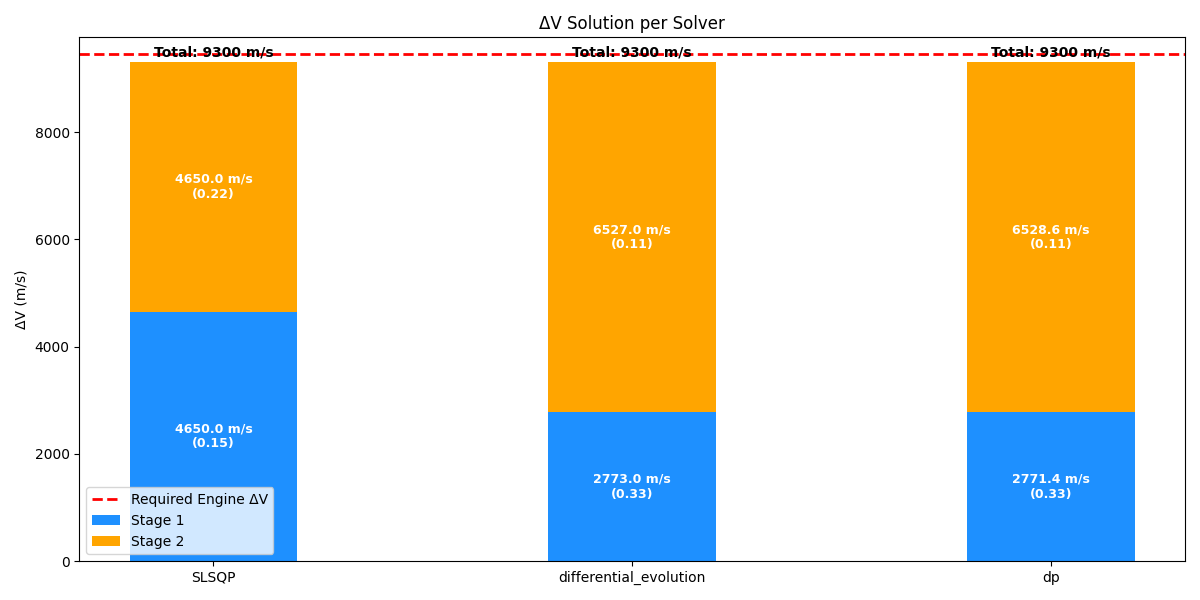
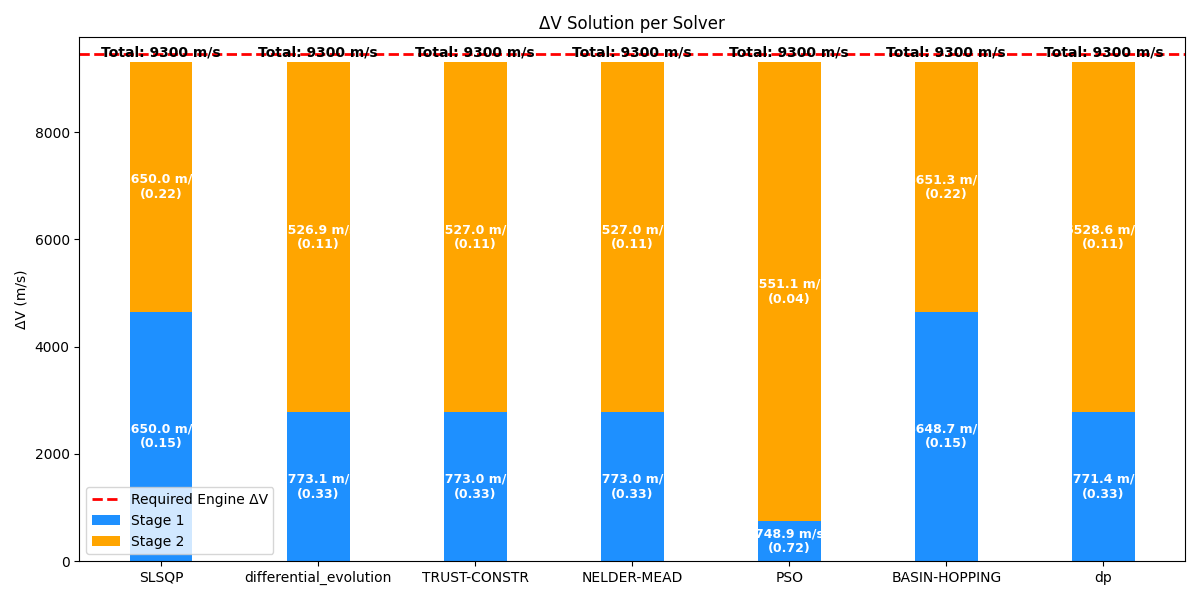
added  more solvers

diff --git a/Stage_Opt/payload_optimization.py b/Stage_Opt/payload_optimization.py
@@ -24,12 +24,14 @@ import csv
 import sys
 import time  # for timing
 import numpy as np
-from scipy.optimize import minimize, differential_evolution, approx_fprime
+from scipy.optimize import minimize, differential_evolution, approx_fprime, basinhopping
 from pymoo.algorithms.soo.nonconvex.ga import GA
 from pymoo.optimize import minimize as pymoo_minimize
 from pymoo.core.problem import Problem
 import matplotlib.pyplot as plt
 import pandas as pd
+from pyswarms.single.global_best import GlobalBestPSO
+import cma
 
 # Constants for gravity and drag losses (in m/s)
 GRAVITY_LOSS = 100.0  
@@ -271,6 +273,91 @@ def optimize_payload_allocation(TOTAL_DELTA_V, ISP, EPSILON, G0=9.81, method='SL
         jacobian = lambda x: approx_fprime(x, lambda dv: objective_with_penalty(dv, G0, ISP, EPSILON, TOTAL_DELTA_V, penalty_coeff, tol), 1e-8)
         res = minimize(objective_with_penalty, initial_guess, args=(G0, ISP, EPSILON, TOTAL_DELTA_V, penalty_coeff, tol), method='Newton-CG', jac=jacobian)
         optimal_dv = res.x
+    elif method.upper() == 'TRUST-CONSTR':
+        constraints = {'type': 'eq', 'fun': lambda dv: np.sum(dv) - TOTAL_DELTA_V}
+        res = minimize(
+            payload_fraction_objective,
+            initial_guess,
+            args=(G0, ISP, EPSILON, penalty_coeff),
+            method='trust-constr',
+            bounds=bounds,
+            constraints=constraints,
+            options={'verbose': 0}
+        )
+        optimal_dv = res.x
+    elif method.upper() == 'NELDER-MEAD':
+        # Nelder-Mead with constraint handling
+        def constrained_objective(x):
+            constraint_violation = abs(np.sum(x) - TOTAL_DELTA_V)
+            obj_value = payload_fraction_objective(x, G0, ISP, EPSILON, penalty_coeff)
+            return obj_value + penalty_coeff * constraint_violation
+
+        res = minimize(
+            constrained_objective,
+            initial_guess,
+            method='Nelder-Mead',
+            options={
+                'maxiter': 10000,
+                'adaptive': True
+            }
+        )
+        optimal_dv = res.x
+    elif method.upper() == 'PSO':
+        def pso_objective(x):
+            # Handle batch of particles
+            return np.array([
+                objective_with_penalty(pos, G0, ISP, EPSILON, TOTAL_DELTA_V, penalty_coeff)
+                for pos in x
+            ])
+
+        # Set up optimizer
+        options = {'c1': 0.5, 'c2': 0.3, 'w': 0.9}
+        optimizer = GlobalBestPSO(
+            n_particles=50,
+            dimensions=n,
+            options=options,
+            bounds=(np.zeros(n), max_dv)
+        )
+        
+        # Optimize
+        best_cost, best_pos = optimizer.optimize(
+            pso_objective,
+            iters=200
+        )
+        optimal_dv = best_pos
+    elif method.upper() == 'BASIN-HOPPING':
+        minimizer_kwargs = {
+            "method": "SLSQP",
+            "args": (G0, ISP, EPSILON, penalty_coeff),
+            "bounds": bounds,
+            "constraints": {'type': 'eq', 'fun': lambda dv: np.sum(dv) - TOTAL_DELTA_V}
+        }
+        
+        res = basinhopping(
+            payload_fraction_objective,
+            initial_guess,
+            minimizer_kwargs=minimizer_kwargs,
+            niter=100,
+            T=1.0,  # Temperature parameter
+            stepsize=0.5  # Initial step size
+        )
+        optimal_dv = res.x
+    elif method.upper() == 'CMA-ES':
+        def cmaes_objective(x):
+            constraint_violation = abs(np.sum(x) - TOTAL_DELTA_V)
+            obj_value = payload_fraction_objective(x, G0, ISP, EPSILON, penalty_coeff)
+            return obj_value + penalty_coeff * constraint_violation
+
+        sigma0 = 0.5  # Initial step size
+        es = cma.CMAEvolutionStrategy(
+            initial_guess,
+            sigma0,
+            {'bounds': [0, max(max_dv)],
+             'maxiter': 1000,
+             'verbose': -1}
+        )
+        res = es.optimize(cmaes_objective)
+        optimal_dv = res.xbest
     elif method.lower() == 'dp':
         if n > 3:
             raise ValueError('Dynamic programming approach only supports up to 3 stages')
@@ -526,7 +613,7 @@ def main():
     ISP = [stage['ISP'] for stage in stages]
     EPSILON = [stage['EPSILON'] for stage in stages]
 
-    methods = ['SLSQP', 'differential_evolution', 'GA', 'newton', 'dp']
+    methods = ['SLSQP', 'differential_evolution', 'GA', 'newton', 'TRUST-CONSTR', 'NELDER-MEAD', 'PSO', 'BASIN-HOPPING', 'CMA-ES', 'dp']
     optimization_results = []
 
     # Run optimization for each method.

diff --git a/Stage_Opt/report.tex b/Stage_Opt/report.tex
@@ -72,9 +72,13 @@ stage & ISP & EPSILON \\
 \midrule
 Method & Time (s) & Payload Fraction & dv & ratio \\
 \midrule
-SLSQP & 0.002707 & 0.031548 & [4650. 4650.] & np.float64(0.14597089895924484), np.float64(0.216125802081186) \\
-differential\_evolution & 2.854491 & 0.035547 & [2772.97185716 6527.01884307] & np.float64(0.3297591669827639), np.float64(0.10779836276028334) \\
-dp & 0.044753 & 0.035547 & [2771.4 6528.6] & np.float64(0.32996739307004114), np.float64(0.10772992500147) \\
+SLSQP & 0.004471 & 0.031548 & 4650.00, 4650.00 & 0.15, 0.22 \\
+differential\_evolution & 2.811751 & 0.035547 & 2773.08, 6526.91 & 0.33, 0.11 \\
+TRUST-CONSTR & 0.120706 & 0.035547 & 2772.98, 6527.02 & 0.33, 0.11 \\
+NELDER-MEAD & 0.011894 & 0.035547 & 2772.98, 6527.02 & 0.33, 0.11 \\
+PSO & 0.575449 & 0.029823 & 748.95, 8551.06 & 0.72, 0.04 \\
+BASIN-HOPPING & 0.132927 & 0.031553 & 4648.70, 4651.30 & 0.15, 0.22 \\
+dp & 0.048755 & 0.035547 & 2771.40, 6528.60 & 0.33, 0.11 \\
 \midrule
 \bottomrule
 \end{tabular}
